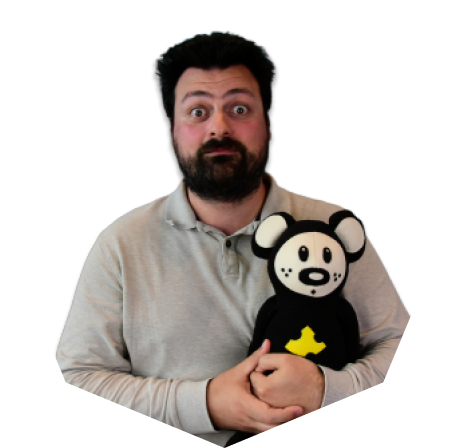
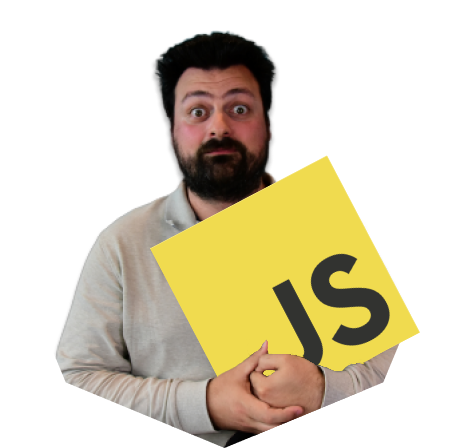
fiddleling with tailwind

Changed region(s): [[0.343, 0.3438, 0.9354, 0.8438]]

diff --git a/pages/index.vue b/pages/index.vue
@@ -15,7 +15,7 @@
                 :text="role"
                 :repeat="Infinity"
                 :type-delay="100"
-                :erase-delay="20"
+                :erase-delay="10"
                 :pre-erase-delay="1500"
                 :shuffle="true"
                 erase-style="backspace"
@@ -25,35 +25,39 @@
         </h1>
       </div>
       <img
-        class="lg:w-2/5 hidden lg:inline-block"
-        src="@/assets/images/static_asset.svg"
+        class="lg:w-2/5 hidden lg:inline-block personal-photo"
+        src="@/assets/images/marco-exa.png"
       />
-
-      <img
+      <svg
         class="absolute rotate-45 bg-octa"
-        src="@/assets/images/bg-octa.svg"
-        alt
-      />
+        width="448"
+        height="448"
+        viewBox="0 0 448 448"
+        fill="none"
+        xmlns="http://www.w3.org/2000/svg"
+      >
+        <path
+          fill-rule="evenodd"
+          clip-rule="evenodd"
+          d="M189.695 14.3458L66.024 65.1917L30.9264 149.299L125.5 260.342L223.434 65.9808L189.695 14.3458ZM0 223.411L28.7802 154.442L123.074 265.156L64.7518 380.905L0 223.411ZM68.9799 383.555L126.57 269.261L169.111 319.21L114.595 402.59L68.9799 383.555ZM119.259 404.536L172.469 323.153L264.434 431.132L223.411 447.998L119.259 404.536ZM175.304 318.818L269.268 429.145L336.946 401.32L382.925 310.068L282.006 155.62L175.304 318.818ZM386.067 314.875L343.963 398.435L381.974 382.807L400.869 337.529L386.067 314.875ZM388.651 309.747L440.612 206.623L447.998 224.588L403.182 331.985L388.651 309.747ZM438.112 200.542L385.509 304.939L284.975 151.08L349.636 52.1822L382.807 66.024L438.112 200.542ZM128.996 264.446L171.945 314.875L279.039 151.079L226.576 70.7883L128.996 264.446ZM282.007 146.539L229.16 65.6597L255.702 12.9838L344.972 50.2359L282.007 146.539ZM226.018 60.8522L194.373 12.4223L224.588 0L251.105 11.0654L226.018 60.8522Z"
+          fill="#2A4365"
+          fill-opacity="0.2"
+        />
+      </svg>
       <div class="text-lg sm:text-xl mt-8 w-full pt-24">
         <div class="flex flex-col md:flex-row justify-between items-center">
-          <div>
-            <img
-              src="@/assets/images/marco-exa.png"
-              alt="avatar"
-              class="w-4/5 h-4/5 mx-auto mb-8 lg:mb-0 md:w-48 md:h-48"
-            />
-          </div>
-          <div class="flex-1 text-lg sm:text-xl ml-6">
+          <div class="flex-1 text-lg sm:text-xl ml-6 main-text">
             I am a passionate frontend developer and mentor based in Amsterdam.
-            I am originally from Venice and I love to work with JavaScript, CSS
-            and everything around user interfaces. I am using daily VueJS,
-            GraphQL and Sass for a consultancy in the center of Amsterdam. My
+            I am originally from Venice and I love to work with
+            <span>JavaScript</span>, CSS and everything around user interfaces.
+            I am using daily <span>VueJS</span>, <span>GraphQL</span> and
+            <span>Sass</span> for a consultancy in the center of Amsterdam. My
             goal is to build clean, performant and accessible user interfaces
             where the right user experience is a focal point. Helping trainee
             and Junior developers to grow and learn is a major part of my job
-            and my personal mission. My job is also my passion and, therefore,
-            seeking out new technologies and stay up-to-date on industry trends
-            and advancements is more a pleasure than a duty.
+            and my <span>personal mission</span>. My job is also my passion and,
+            therefore, seeking out new technologies and stay up-to-date on
+            industry trends and advancements is more a pleasure than a duty.
           </div>
         </div>
       </div>
@@ -145,7 +149,7 @@ export default {
   }
 }
 </script>
-<style>
+<style lang="scss">
 .vue-typer .custom.char.typed {
   color: #2b6cb0;
 }
@@ -156,5 +160,17 @@ export default {
 .vue-typer .custom.char.selected {
   background-color: transparent;
   text-decoration: line-through;
+}
+.personal-photo {
+  position: relative;
+  z-index: 1;
+}
+
+.main-text {
+  span {
+    &:hover {
+      color: var(--text-highlight);
+    }
+  }
 }
 </style>

diff --git a/pages/articles/_slug.vue b/pages/articles/_slug.vue
@@ -1,23 +1,27 @@
 <template>
-  <div class="container-inner mx-auto my-16 bg-background-secondary">
-    <h1 class="text-4xl font-bold leading-tight">{{ article.title }}</h1>
-    <div class="text-xl text-gray-600 mb-4">{{ article.date }}</div>
-    <p>{{ article.description }}</p>
-    <nuxt-content :document="article" class="markdown-body mb-8" />
-    <div class="flex mb-8 text-sm">
-      <nuxt-link
-        v-if="prev"
-        :to="{ name: 'articles-slug', params: { slug: prev.slug } }"
-        >&lt; {{ prev.title }}</nuxt-link
-      >&nbsp;|
-      <nuxt-link
-        v-if="next"
-        :to="{ name: 'articles-slug', params: { slug: next.slug } }"
-        >{{ next.title }} &gt;</nuxt-link
-      >
-    </div>
-    <div class="mb-8">
-      <nuxt-link to="/articles" class="font-bold uppercase">Articles</nuxt-link>
+  <div class="container-inner mx-auto my-16 article-container">
+    <div class="py-8 px-10">
+      <h1 class="text-4xl font-bold leading-tight">{{ article.title }}</h1>
+      <div class="text-xl text-gray-600 mb-4">{{ article.date }}</div>
+      <p>{{ article.description }}</p>
+      <nuxt-content :document="article" class="markdown-body mb-8" />
+      <div class="flex justify-center mb-8 text-sm">
+        <nuxt-link
+          v-if="prev"
+          :to="{ name: 'articles-slug', params: { slug: prev.slug } }"
+          >&lt; {{ prev.title }}</nuxt-link
+        >&nbsp;|
+        <nuxt-link
+          v-if="next"
+          :to="{ name: 'articles-slug', params: { slug: next.slug } }"
+          >{{ next.title }} &gt;</nuxt-link
+        >
+      </div>
+      <div class="mb-8">
+        <nuxt-link to="/articles" class="font-bold uppercase"
+          >Back to articles</nuxt-link
+        >
+      </div>
     </div>
   </div>
 </template>
@@ -76,3 +80,9 @@ export default {
   }
 }
 </script>
+<style>
+.article-container {
+  background: var(--bg-background-secondary);
+  /* box-shadow: 0 10px 20px rgba(0, 0, 0, 0.19), 0 6px 6px rgba(0, 0, 0, 0.23); */
+}
+</style>

diff --git a/main.css b/main.css
@@ -9,6 +9,7 @@
   --bg-background-gradient-start: #e2e8f0;
   --bg-background-form: #ffffff;
 
+  --text-highlight: #9f7aea;
   --text-copy-primary: #2d3748;
   --text-copy-secondary: #4a5568;
 
@@ -42,7 +43,7 @@
   --bg-background-gradient-start: #2c5282;
 
   --bg-background-form: #1a202c;
-
+  --text-highlight: #9f7aea;
   --text-copy-primary: #cbd5e0;
   --text-copy-secondary: #e2e8f0;
 
@@ -143,6 +144,7 @@ nav .active--exact.home {
   height: 80%;
   pointer-events: none;
   overflow-x: hidden;
+  opacity: 0.6;
 }
 
 .vue-typer .custom.char.typed {
